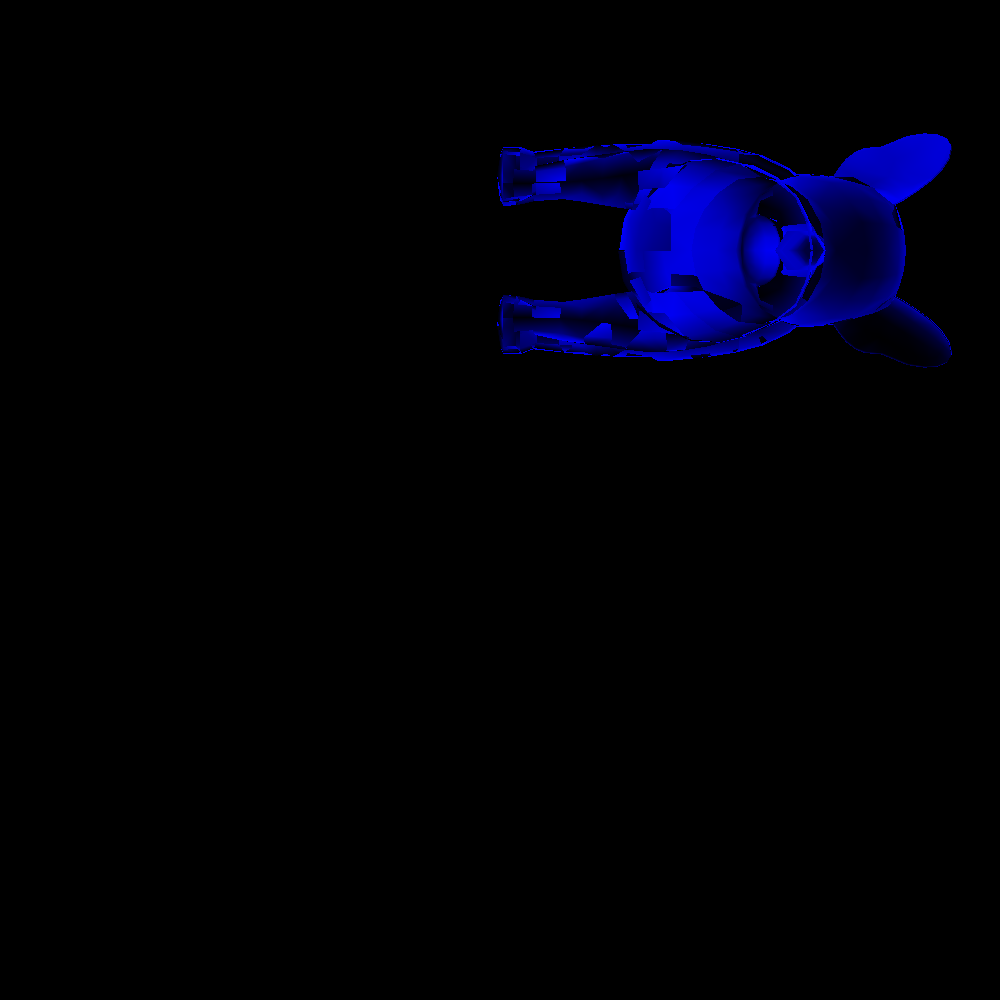
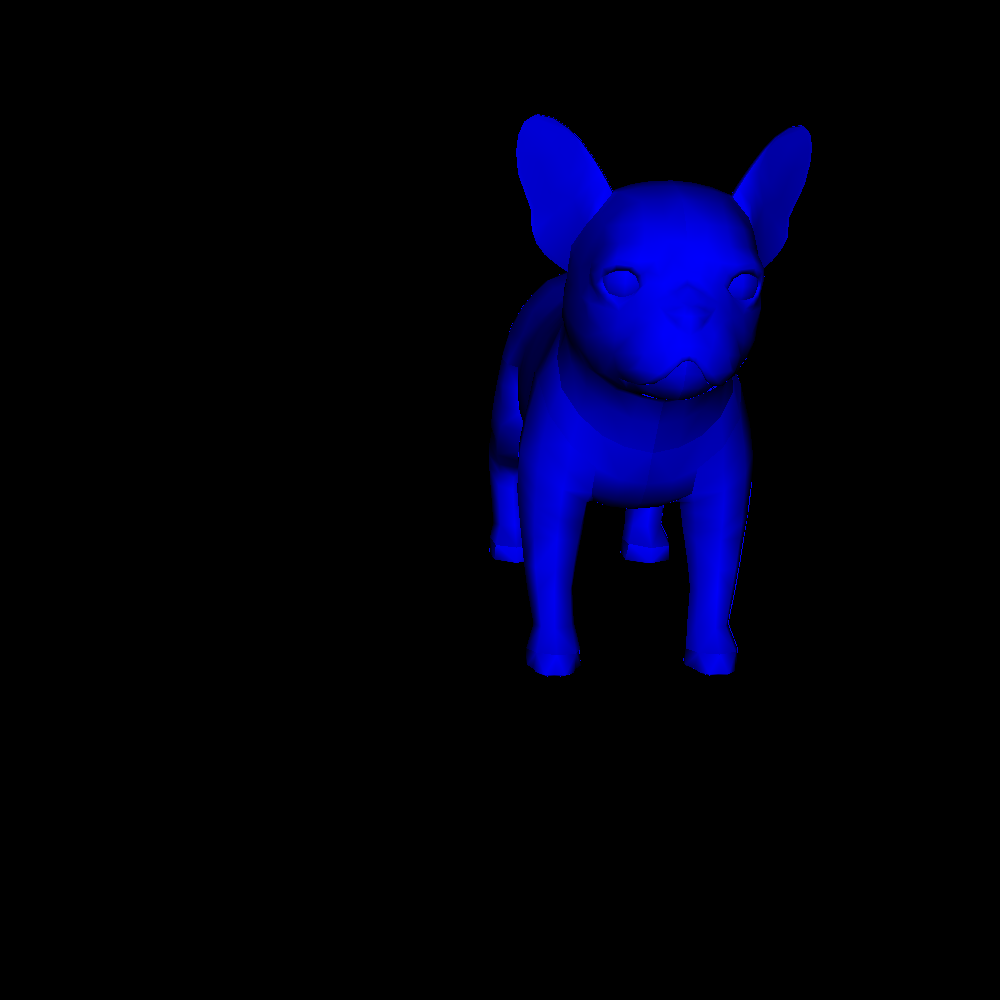
Gouraud shades

Changed region(s): [[0.465, 0.093, 0.961, 0.682]]

diff --git a/CG/CG.cpp b/CG/CG.cpp
@@ -641,7 +641,10 @@ void upd_polygons_data(vector<point>& points, vector<polygon>& polygons) {
 }
 
 void guro(std::vector<point>& points, vector<polygon>& polygons, unsigned char*& img, int w, int h) {
-    
+    double* z_buffer = new double[w * h];
+    for (int i = 0; i < w * h; ++i) {
+        z_buffer[i] = numeric_limits<double>::max();
+    }
     for (polygon p : polygons) {
         point pa = points[p.points[0]];
         point pb = points[p.points[1]];
@@ -661,18 +664,22 @@ void guro(std::vector<point>& points, vector<polygon>& polygons, unsigned char*&
         ymin = ymin < 0 ? 0 : ymin;
         xmax = xmax < w ? xmax : w;
         ymax = ymax < h ? ymax : h;
+        double l0 = a.norm[2] / sqrt(a.norm[0] * a.norm[0] + a.norm[1] * a.norm[1] + a.norm[2] * a.norm[2]);
+        double l1 = b.norm[2] / sqrt(b.norm[0] * b.norm[0] + b.norm[1] * b.norm[1] + b.norm[2] * b.norm[2]);
+        double l2 = c.norm[2] / sqrt(c.norm[0] * c.norm[0] + c.norm[1] * c.norm[1] + c.norm[2] * c.norm[2]);
         for (int i = xmin; i < xmax; ++i) {
             for (int j = ymin; j < ymax; ++j) {
                 dot d = dot(i, j);
                 double* bc = barycentric_coordinates(tr, d);
                 if (bc[0] > 0 && bc[1] > 0 && bc[2] > 0) {
-                    double l0 = a.norm[2] / sqrt(a.norm[0] * a.norm[0] + a.norm[1] * a.norm[1] + a.norm[2] * a.norm[2]);
-                    double l1 = b.norm[2] / sqrt(b.norm[0] * b.norm[0] + b.norm[1] * b.norm[1] + b.norm[2] * b.norm[2]);
-                    double l2 = c.norm[2] / sqrt(c.norm[0] * c.norm[0] + c.norm[1] * c.norm[1] + c.norm[2] * c.norm[2]);
                     double arg1 = bc[0] * l0 + bc[1] * l1 + bc[2] * l2;
-                    img[idx(i, j, 0, w, 3)] = 0;
-                    img[idx(i, j, 1, w, 3)] = 0;
-                    img[idx(i, j, 2, w, 3)] = 255 - (char)(255*arg1) % 256;/*
+                    double z_0 = bc[0] * p.x.z + bc[1] * p.y.z + bc[2] * p.z.z;
+                    if(!(z_0 > z_buffer[i * w + j])) {
+                        img[idx(i, j, 0, w, 3)] = 0;
+                        img[idx(i, j, 1, w, 3)] = 0;
+                        img[idx(i, j, 2, w, 3)] = (char)(255 * arg1) % 256;
+                        z_buffer[i * w + j] = z_0;
+                    }/*
                     printf("arg1 = %f\t color = %d\n", arg1, (char)(255 * arg1) % 255);*/
                 }
                 delete[](bc);
@@ -711,16 +718,15 @@ int main()
     double t[3] = { 0, 0, 50 };
     projective_transform(points, scale, 500, 250, t, new_points);
     vector<point> rotated_new_points;
-    //rotate(points, 0, 0, -90, rotated_new_points);
-    //upd_polygons_data(rotated_new_points, polygons);
-    //for (int i = 0; i < rotated_new_points.size(); ++i) {
-    //    set_norm(polygons, rotated_new_points[i]);
-    //    rotated_new_points[i].set_light();
-    //}
-    //upd_polygons_data(rotated_new_points, polygons);
-    //fill_polygons_with_z_buffer(polygons, img, w, h);
-    //new_points.clear();
-    //projective_transform(rotated_new_points, scale, 600, 600, t, new_points);
+    rotate(points, 170, -20, -90, rotated_new_points);
+    upd_polygons_data(rotated_new_points, polygons);
+    for (int i = 0; i < rotated_new_points.size(); ++i) {
+        set_norm(polygons, rotated_new_points[i]);
+        rotated_new_points[i].set_light();
+    }
+    upd_polygons_data(rotated_new_points, polygons);
+    new_points.clear();
+    projective_transform(rotated_new_points, scale, 600, 600, t, new_points);
     //upd_save_points(img, w, h, new_points, point_mask);
     guro(new_points, polygons, img, w, h);
     delete[](img);
